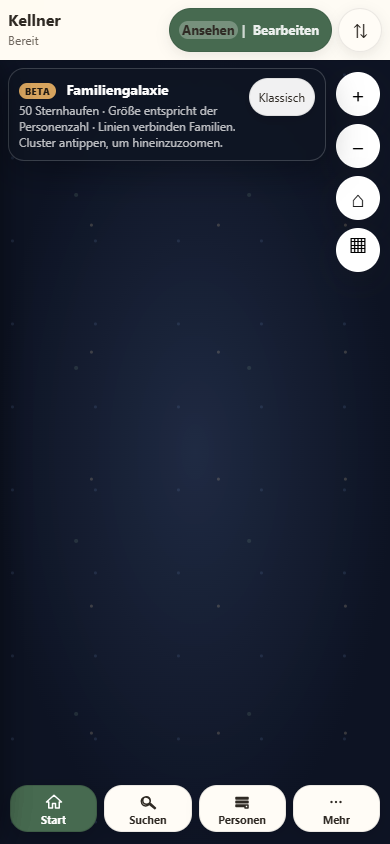
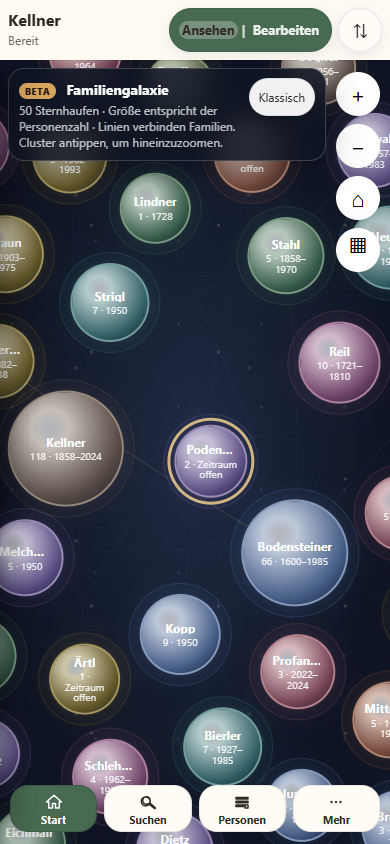
Tone down galaxy cluster glow

diff --git a/style.css b/style.css
@@ -53,8 +53,8 @@ main{position:relative;overflow:clip;touch-action:none}
 svg.lines{position:absolute;inset:0;width:100%;height:100%;overflow:visible;pointer-events:none;z-index:1}
 #nodes{position:absolute;inset:0;z-index:2}
 .galaxyClusters{position:absolute;inset:0;z-index:3;pointer-events:none}
-.galaxyCluster{position:absolute;display:grid;place-items:center;align-content:center;gap:calc(3px * var(--inverse-view-scale,1));width:calc(var(--cluster-size,82px) * var(--inverse-view-scale,1));height:calc(var(--cluster-size,82px) * var(--inverse-view-scale,1));min-width:0;min-height:0;padding:calc(8px * var(--inverse-view-scale,1));transform:translate(-50%,-50%);border:calc(2px * var(--inverse-view-scale,1)) solid color-mix(in srgb,var(--cluster-color,#6b8f71) 78%,white);border-radius:50%;background:radial-gradient(circle at 36% 32%,rgba(255,255,255,.98) 0 9%,color-mix(in srgb,var(--cluster-color,#6b8f71) 68%,#fff) 28%,color-mix(in srgb,var(--cluster-color,#6b8f71) 72%,#17213a) 72%,#121827 100%);color:#fff;box-shadow:0 0 calc(18px * var(--inverse-view-scale,1)) color-mix(in srgb,var(--cluster-color,#6b8f71) 48%,transparent),0 0 calc(46px * var(--inverse-view-scale,1)) color-mix(in srgb,var(--cluster-color,#6b8f71) 22%,transparent);text-align:center;line-height:1.05;pointer-events:auto;isolation:isolate}
-.galaxyCluster::before{content:'';position:absolute;inset:calc(-13px * var(--inverse-view-scale,1));z-index:-1;border:calc(1px * var(--inverse-view-scale,1)) solid color-mix(in srgb,var(--cluster-color,#6b8f71) 42%,transparent);border-radius:50%;box-shadow:inset 0 0 calc(18px * var(--inverse-view-scale,1)) color-mix(in srgb,var(--cluster-color,#6b8f71) 24%,transparent)}
+.galaxyCluster{position:absolute;display:grid;place-items:center;align-content:center;gap:calc(3px * var(--inverse-view-scale,1));width:calc(var(--cluster-size,82px) * var(--inverse-view-scale,1));height:calc(var(--cluster-size,82px) * var(--inverse-view-scale,1));min-width:0;min-height:0;padding:calc(8px * var(--inverse-view-scale,1));transform:translate(-50%,-50%);border:calc(2px * var(--inverse-view-scale,1)) solid color-mix(in srgb,var(--cluster-color,#6b8f71) 70%,white);border-radius:50%;background:radial-gradient(circle at 36% 32%,rgba(255,255,255,.68) 0 4%,color-mix(in srgb,var(--cluster-color,#6b8f71) 38%,#fff) 18%,color-mix(in srgb,var(--cluster-color,#6b8f71) 74%,#17213a) 68%,#121827 100%);color:#fff;box-shadow:0 0 calc(12px * var(--inverse-view-scale,1)) color-mix(in srgb,var(--cluster-color,#6b8f71) 28%,transparent),0 0 calc(30px * var(--inverse-view-scale,1)) color-mix(in srgb,var(--cluster-color,#6b8f71) 12%,transparent);text-align:center;line-height:1.05;pointer-events:auto;isolation:isolate}
+.galaxyCluster::before{content:'';position:absolute;inset:calc(-13px * var(--inverse-view-scale,1));z-index:-1;border:calc(1px * var(--inverse-view-scale,1)) solid color-mix(in srgb,var(--cluster-color,#6b8f71) 30%,transparent);border-radius:50%;box-shadow:inset 0 0 calc(14px * var(--inverse-view-scale,1)) color-mix(in srgb,var(--cluster-color,#6b8f71) 12%,transparent)}
 .galaxyCluster strong{max-width:92%;font-size:calc(12px * var(--inverse-view-scale,1));overflow:hidden;text-overflow:ellipsis;white-space:nowrap}
 .galaxyCluster span{font-size:calc(10px * var(--inverse-view-scale,1));opacity:.88}
 .galaxyCluster.root{outline:calc(3px * var(--inverse-view-scale,1)) solid rgba(255,220,150,.78);outline-offset:calc(4px * var(--inverse-view-scale,1))}

diff --git a/tests/galaxy-layout.spec.js b/tests/galaxy-layout.spec.js
@@ -157,6 +157,9 @@ test('reale Familiengalaxie bleibt kollisionsarm und visuell prüfbar', async ({
   await page.getByTestId('galaxy-back').click();
   await page.setViewportSize({ width: 390, height: 844 });
   await expect(page.getByTestId('galaxy-hud')).toBeInViewport();
+  await expect.poll(async () => page.locator('.galaxyCluster').evaluateAll(elements =>
+    Math.max(...elements.map(element => element.getBoundingClientRect().width))
+  )).toBeLessThan(140);
   if (captureScreenshots) {
     await page.screenshot({ path: path.join(screenshotDir, 'galaxie-uebersicht-390x844.png') });
   }
